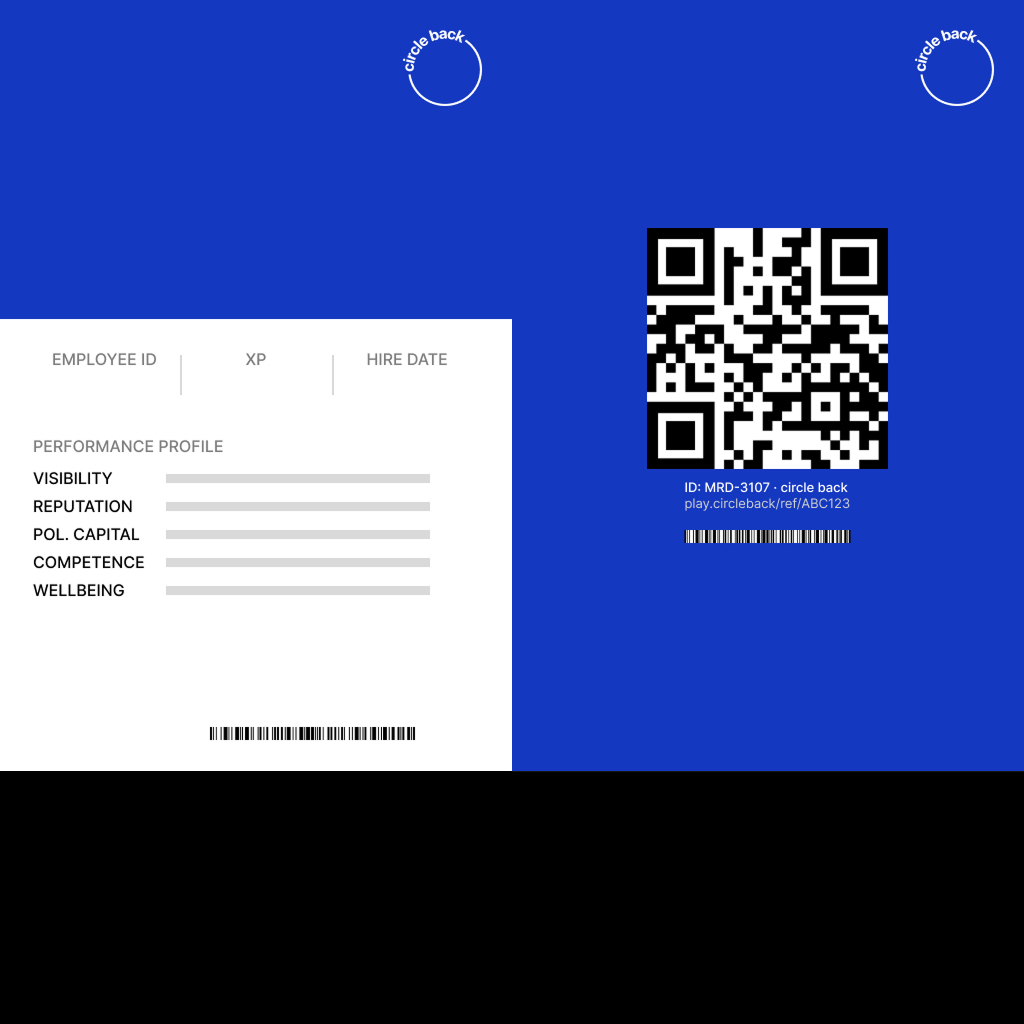
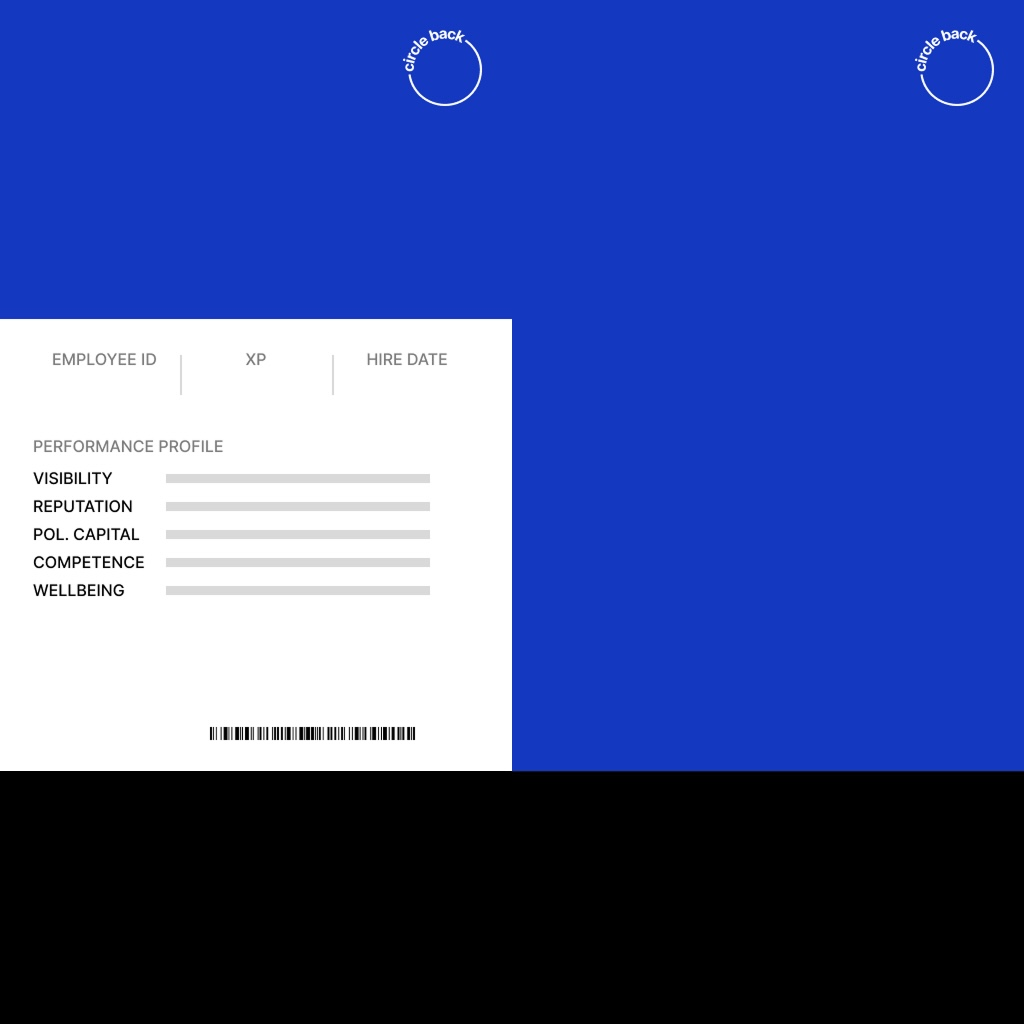
add dynamic back-side QR code

Changed region(s): [[0.625, 0.2188, 0.875, 0.5312]]

diff --git a/src/App.tsx b/src/App.tsx
@@ -118,15 +118,17 @@ async function drawContent(ctx: CanvasRenderingContext2D, props: BadgeProps) {
     ctx.fillText(`${metric}`, 478, baseY + i * ygap + 4.5);
   }
 
-  // draw invite qr code
   const baseUrl = "https://circle.com/ref/";
-  const qrCanvas = document.createElement("canvas");
-  await QRCode.toCanvas(qrCanvas, `${baseUrl}${props.referralCode}`, {
+  const referralUrl = `${baseUrl}${props.referralCode}`;
+
+  // draw front invite qr code
+  const frontQrCanvas = document.createElement("canvas");
+  await QRCode.toCanvas(frontQrCanvas, referralUrl, {
     width: 103,
     margin: 0,
   });
 
-  ctx.drawImage(qrCanvas, 97, 637, 103, 103);
+  ctx.drawImage(frontQrCanvas, 97, 637, 103, 103);
 
   // draw label
   ctx.fillStyle = "black";
@@ -141,6 +143,26 @@ async function drawContent(ctx: CanvasRenderingContext2D, props: BadgeProps) {
   ctx.textAlign = "left";
   ctx.textBaseline = "top";
   ctx.fillText(`circle.com/ref/${props.referralCode}`, 210, 656);
+
+  // Draw the back-side QR on a rounded white card.
+  ctx.fillStyle = "white";
+  ctx.beginPath();
+  ctx.roundRect(639, 220, 257, 257, 12);
+  ctx.fill();
+
+  const backQrCanvas = document.createElement("canvas");
+  await QRCode.toCanvas(backQrCanvas, referralUrl, {
+    width: 241,
+    margin: 0,
+  });
+  ctx.drawImage(backQrCanvas, 647, 228, 241, 241);
+
+  ctx.fillStyle = "white";
+  ctx.font = '400 13px "Inter"';
+  ctx.textAlign = "left";
+  ctx.textBaseline = "top";
+  ctx.fillText(`ID: ${props.employeeId} · circle back`, 684, 482);
+  ctx.fillText(`circle.com/ref/${props.referralCode}`, 684, 499);
 }
 
 function App() {
@@ -188,12 +210,31 @@ function App() {
     });
   }, []);
 
-  // draw content when both image and fonts are loaded
+  // Draw into an offscreen canvas first so rapid input changes cannot let an
+  // older asynchronous QR render overwrite the latest badge.
   useEffect(() => {
     if (allLoaded && ctxRef.current && imgRef.current) {
-      const ctx = ctxRef.current;
-      ctx.drawImage(imgRef.current, 0, 0);
-      drawContent(ctx, props);
+      let cancelled = false;
+      const outputCtx = ctxRef.current;
+      const outputImage = imgRef.current;
+      const renderCanvas = document.createElement("canvas");
+      renderCanvas.width = 1024;
+      renderCanvas.height = 1024;
+      const renderCtx = renderCanvas.getContext("2d");
+
+      if (renderCtx) {
+        renderCtx.drawImage(outputImage, 0, 0);
+        void drawContent(renderCtx, props).then(() => {
+          if (!cancelled) {
+            outputCtx.clearRect(0, 0, 1024, 1024);
+            outputCtx.drawImage(renderCanvas, 0, 0);
+          }
+        });
+      }
+
+      return () => {
+        cancelled = true;
+      };
     }
   }, [allLoaded, props]);
 
